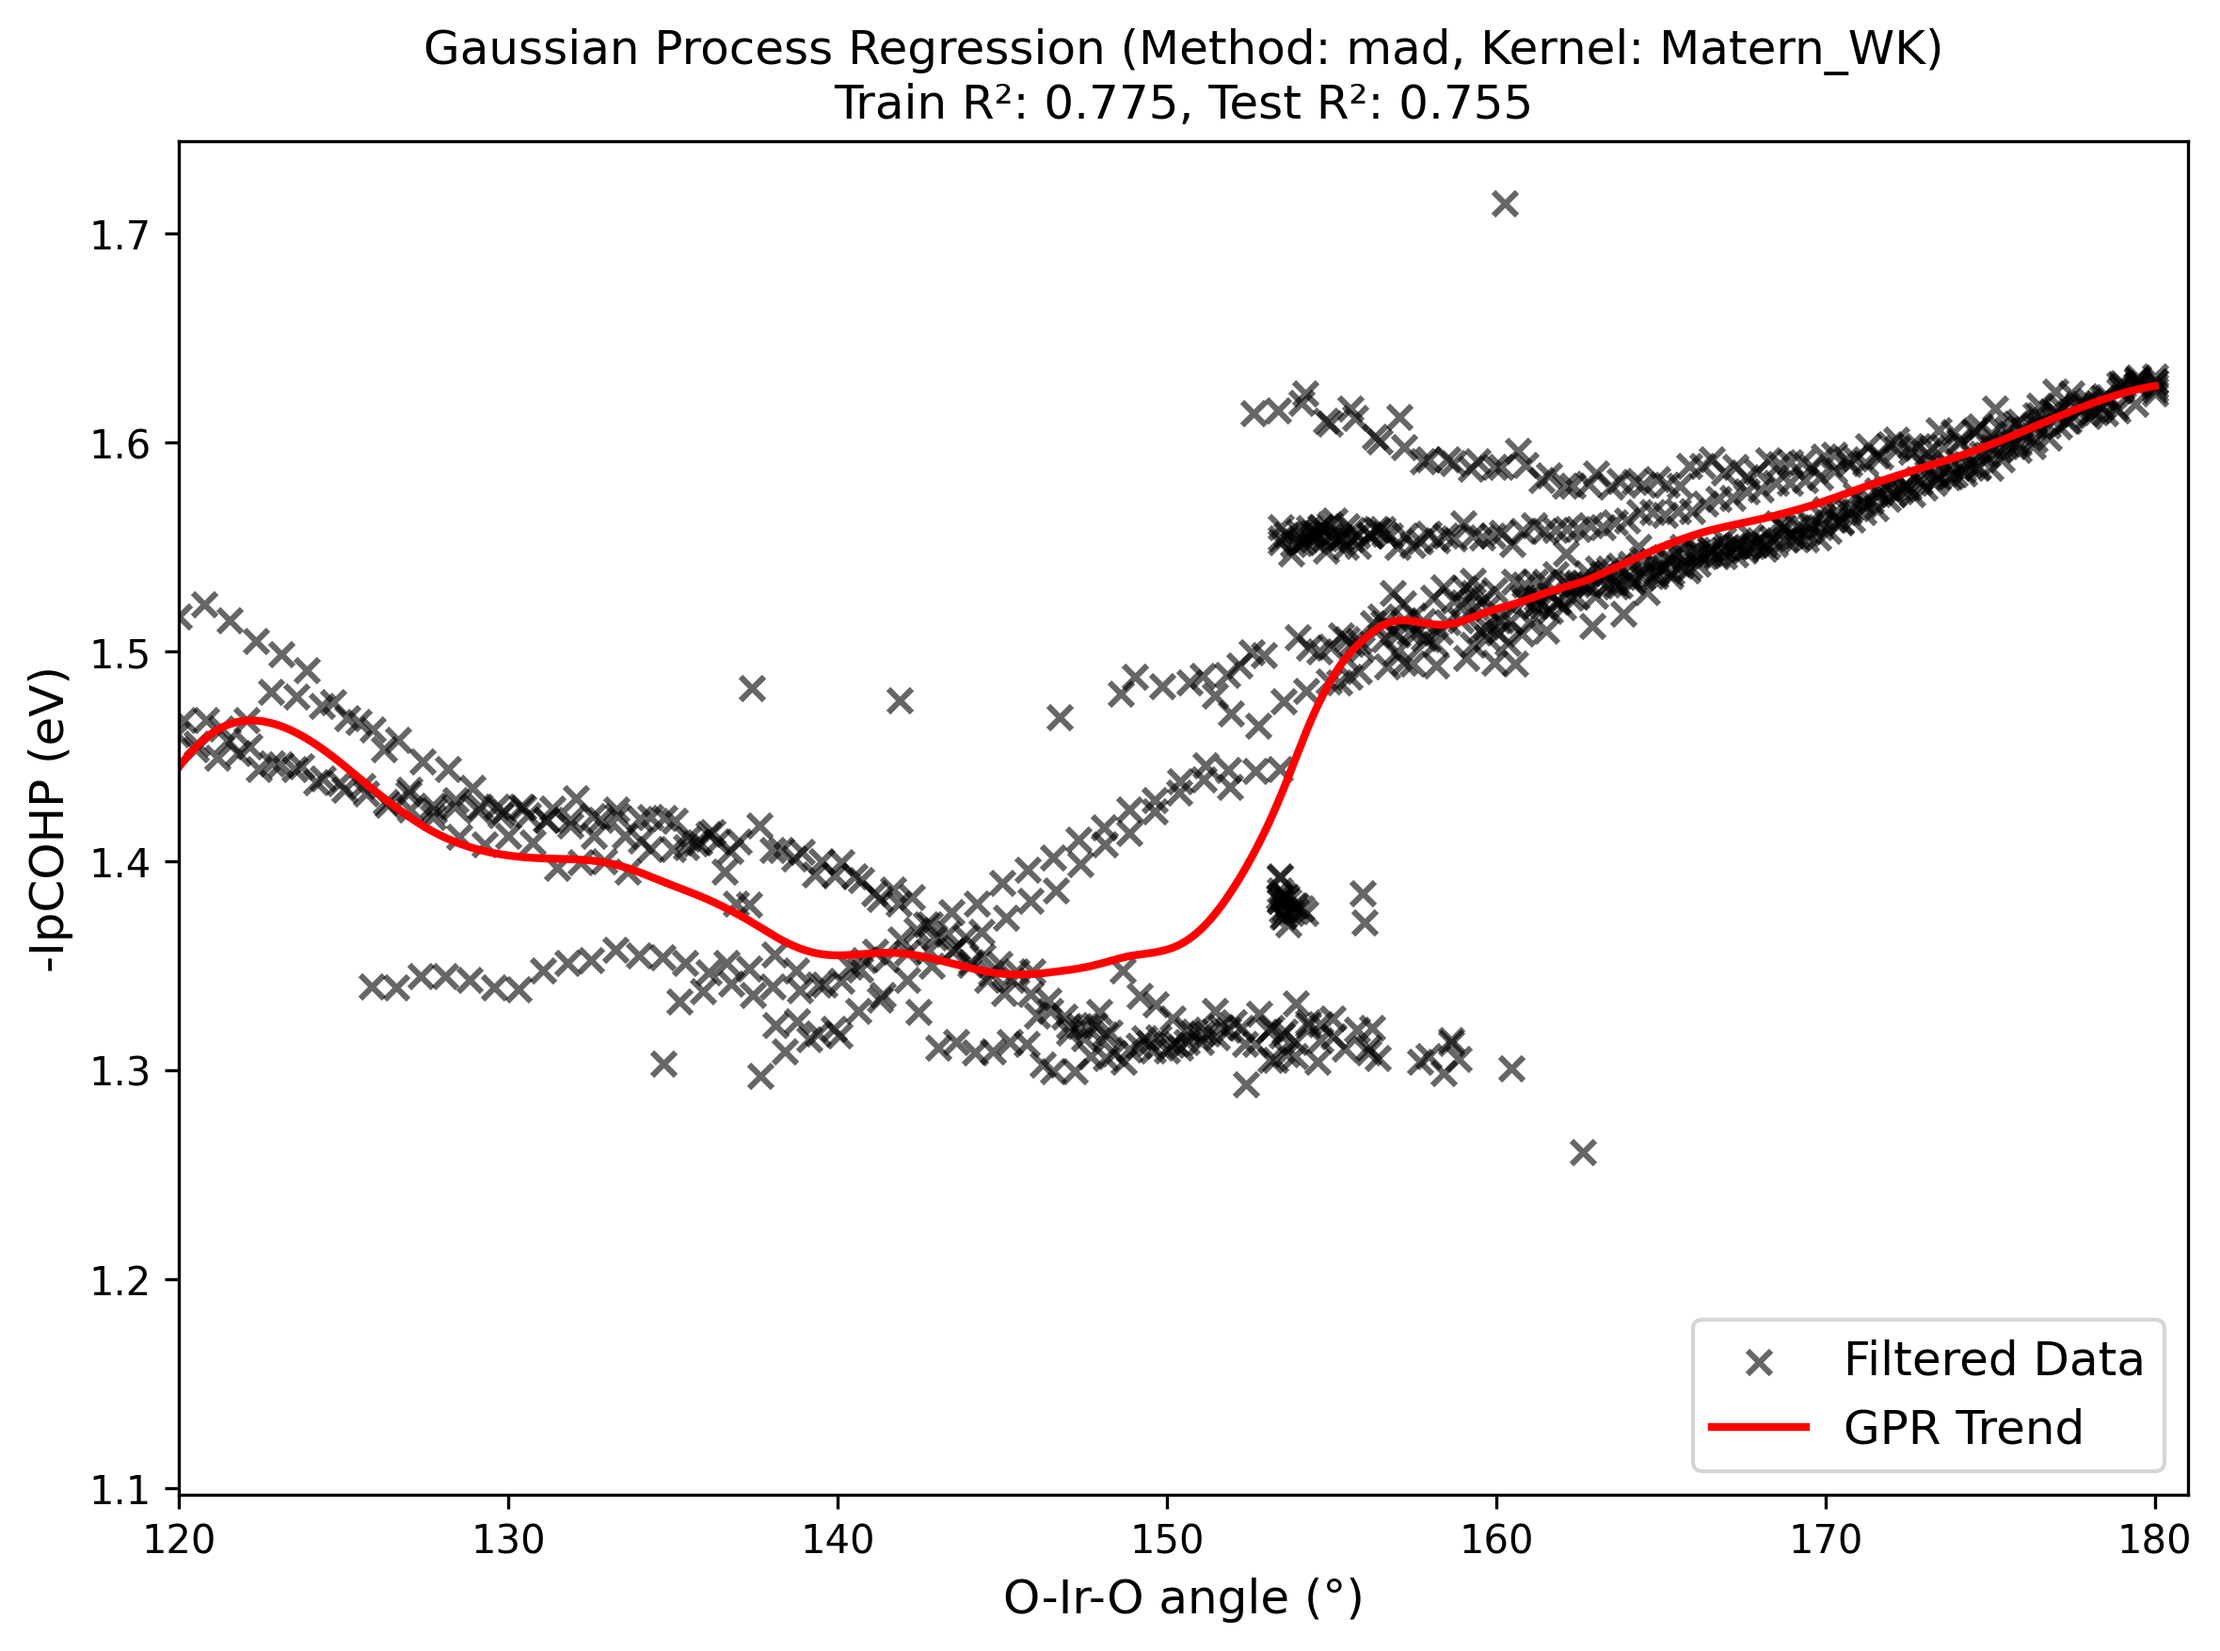
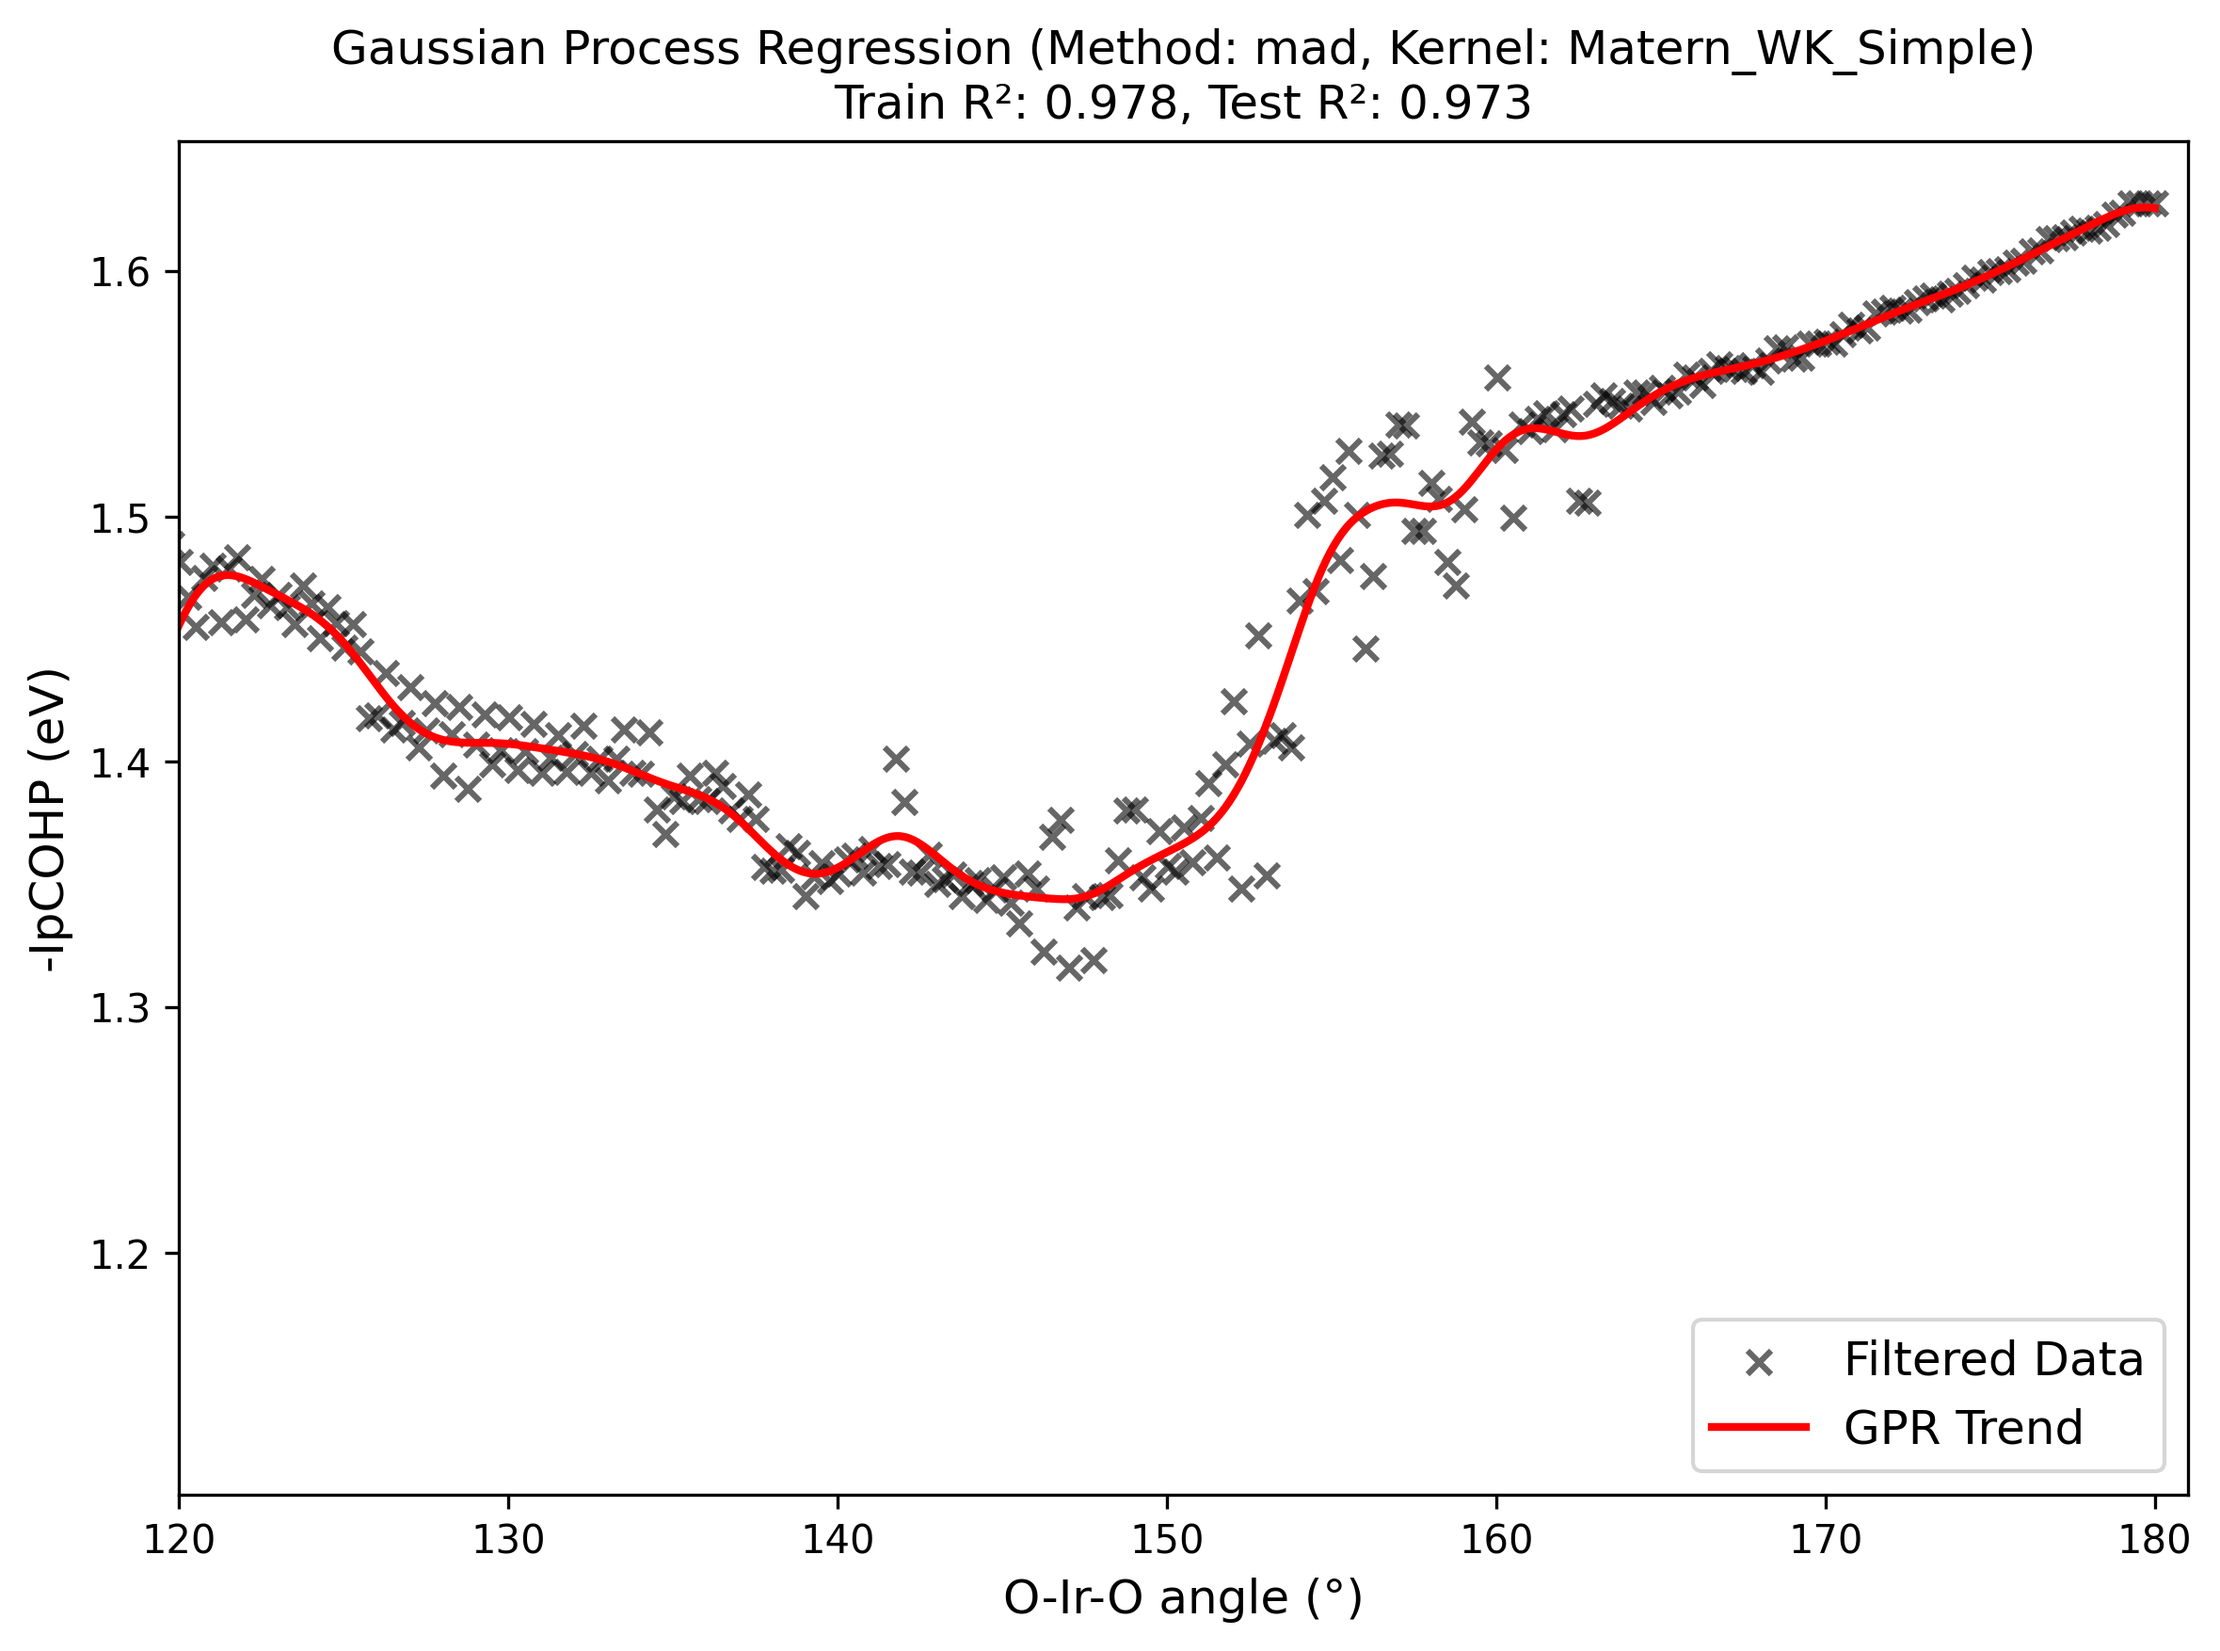
2

diff --git a/octachedral_gaussian/datafit_test/gpr_data_fit.py b/octachedral_gaussian/datafit_test/gpr_data_fit.py
@@ -196,51 +196,8 @@ print(f"最佳 AIC: {best_aic:.3f}, 最佳平均 R²: {best_r2:.3f}")
 # ==========================
 # 4. 用最佳方法和核函数重新训练 + 评估
 # ==========================
-# 1. 使用最佳异常值处理
 X_filtered, y_filtered = remove_outliers(X, y, method=best_method)
 
-# --- ⭐ 2. 实现滑动窗口平滑 (新逻辑) ---
-if cfg.BINNING_ENABLED:
-    print(f"启用滑动窗口平滑。窗口宽度: {cfg.WINDOW_WIDTH}°，步长: {cfg.STEP_SIZE}°")
-    
-    X_original = X_filtered.flatten()
-    y_original = y_filtered.ravel()
-
-    # 确定起始点和结束点（使用整个数据范围）
-    start_point = X_original.min()
-    end_point = X_original.max()
-
-    X_smoothed = []
-    y_smoothed = []
-
-    # 从数据的最小角度开始，按步长移动窗口
-    current_center = start_point + cfg.WINDOW_WIDTH / 2.0
-    
-    # 增加一个小容差以确保覆盖最大值
-    while current_center <= end_point + cfg.WINDOW_WIDTH / 2.0 + 1e-6: 
-        # 定义当前窗口的上下限
-        lower_bound = current_center - cfg.WINDOW_WIDTH / 2.0
-        upper_bound = current_center + cfg.WINDOW_WIDTH / 2.0
-        
-        # 筛选出窗口内的数据点
-        window_mask = (X_original >= lower_bound) & (X_original < upper_bound)
-        y_in_window = y_original[window_mask]
-        
-        if len(y_in_window) > 0:
-            # 记录窗口的中心点（新的 X 值）
-            X_smoothed.append(current_center)
-            # 记录窗口内 Y 值的平均值（新的 Y 值）
-            y_smoothed.append(np.mean(y_in_window))
-
-        # 移动到下一个窗口中心点
-        current_center += cfg.STEP_SIZE
-        
-    X_filtered = np.array(X_smoothed).reshape(-1, 1)
-    y_filtered = np.array(y_smoothed).ravel()
-    print(f"滑动窗口平滑完成。生成数据点: {len(y_filtered)} 个。")
-# -----------------------------------------------
-
-# 3. 标准化
 scaler_X = StandardScaler()
 scaler_y = StandardScaler()
 X_scaled = scaler_X.fit_transform(X_filtered)
@@ -250,13 +207,16 @@ X_train, X_test, y_train, y_test = train_test_split(
     X_scaled, y_scaled, test_size=cfg.TEST_SIZE, random_state=cfg.RANDOM_STATE
 )
 
+
 final_kernel = cfg.KERNELS[best_kernel]
 gpr = GaussianProcessRegressor(
     kernel=final_kernel,
     n_restarts_optimizer=cfg.FINAL_N_RESTARTS,
-    alpha=cfg.FINAL_ALPHA, # 使用增强鲁棒性的 FINAL_ALPHA
+    # ⭐ 这里使用更新后的 FINAL_ALPHA (例如 1e-4)
+    alpha=cfg.FINAL_ALPHA, 
     normalize_y=True
 )
+
 with warnings.catch_warnings():
     warnings.simplefilter("ignore", ConvergenceWarning)
     gpr.fit(X_train, y_train)
@@ -265,7 +225,6 @@ train_r2 = r2_score(y_train, gpr.predict(X_train))
 test_r2 = r2_score(y_test, gpr.predict(X_test))
 print(f"\nFinal Train R²: {train_r2:.3f}, Test R²: {test_r2:.3f}")
 print("Optimized kernel parameters:\n", gpr.kernel_)
-
 
 # ==========================
 # 5. 可视化：散点 + 趋势线

diff --git a/octachedral_gaussian/datafit_test/gpr_config.py b/octachedral_gaussian/datafit_test/gpr_config.py
@@ -32,6 +32,11 @@ INITIAL_N_RESTARTS = 5
 FINAL_ALPHA = 1e-4       # 从 1e-5 增大到 1e-4，减少过度拟合和震荡
 FINAL_N_RESTARTS = 20    
 
+# --- 6. 数据平滑配置 ---
+BINNING_ENABLED = True     # ⭐ 启用滑动窗口平滑
+WINDOW_WIDTH = 0.5         # 窗口的宽度 (例如 0.5 度)
+STEP_SIZE = 0.25           # 滑动窗口的步长 (例如 0.25 度，重叠 50%)
+
 # --- 4. 候选核函数定义 (优化后) ---
 from sklearn.gaussian_process.kernels import RBF, ConstantKernel as C, Matern, WhiteKernel
 
@@ -42,8 +47,9 @@ KERNELS = {
     
     # ⭐ 优化 Matern_WK：赋予 WhiteKernel 更大的优化空间
     "Matern_WK": C(1.0, (1e-3, 1e5)) * Matern(length_scale=12.0, nu=1.5) +
-                 WhiteKernel(noise_level=1e-5, noise_level_bounds=(1e-7, 1e-1)), # 初始噪声设高，鼓励模型学习噪声
-                 
+                 WhiteKernel(noise_level=1e-5, noise_level_bounds=(1e-7, 1e-1)), 
+    "Matern_WK_Simple": C(1.0, (1e-2, 1e2)) * Matern(length_scale=5.0, nu=2.5) +
+                    WhiteKernel(noise_level=1e-5, noise_level_bounds=(1e-7, 1e-1)),             
     "Matern_WK_RBF": C(1.5, (1e-2, 1e2)) * Matern(length_scale=1.0, nu=1.5,
                                                    length_scale_bounds=(1e-3, 1e3)) +
                      WhiteKernel(noise_level=1e-7, noise_level_bounds=(1e-8, 1e-1)) +
